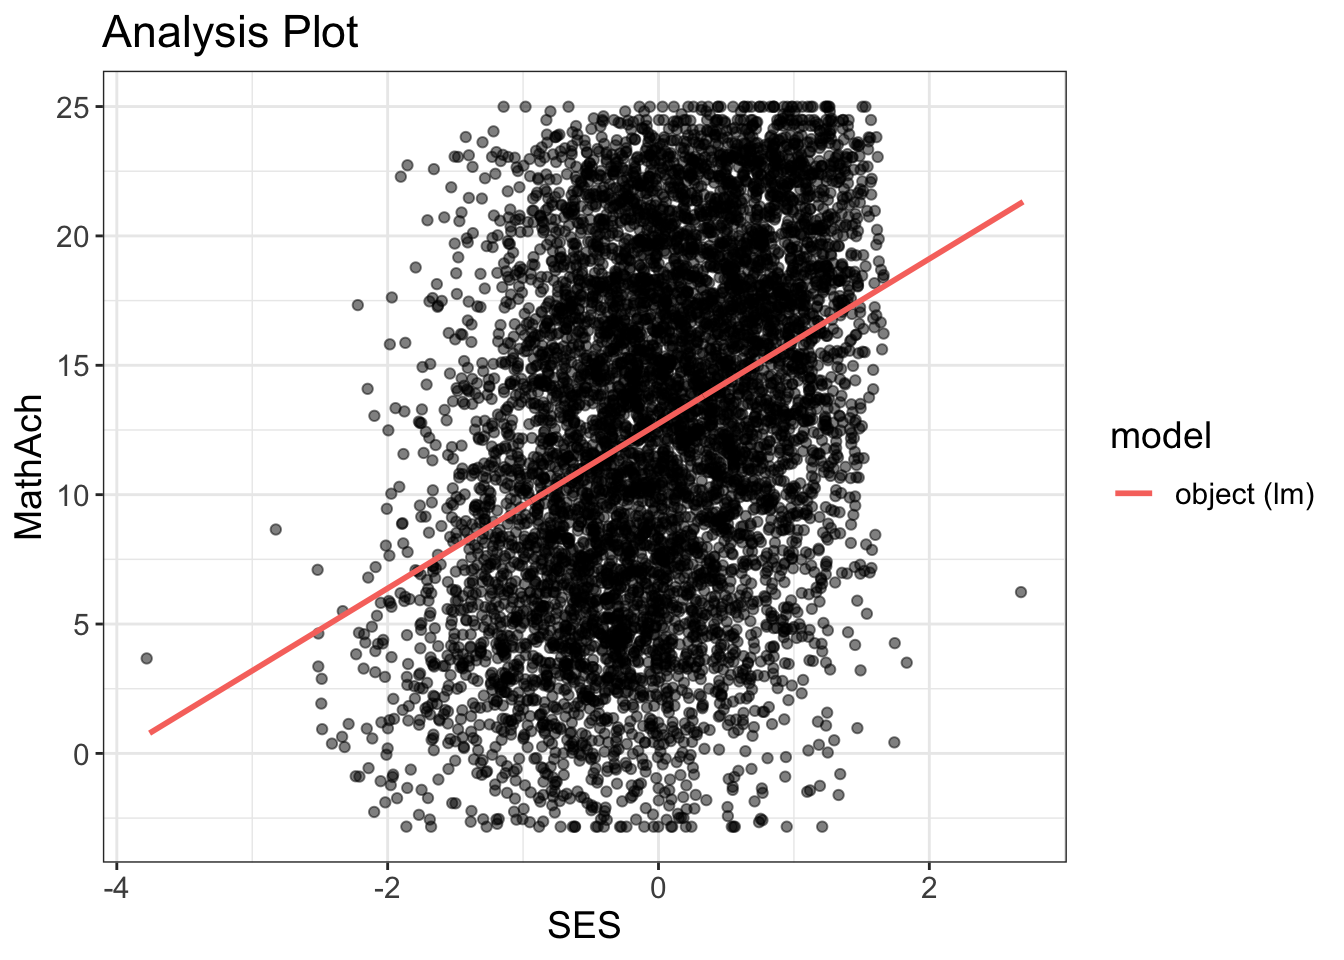
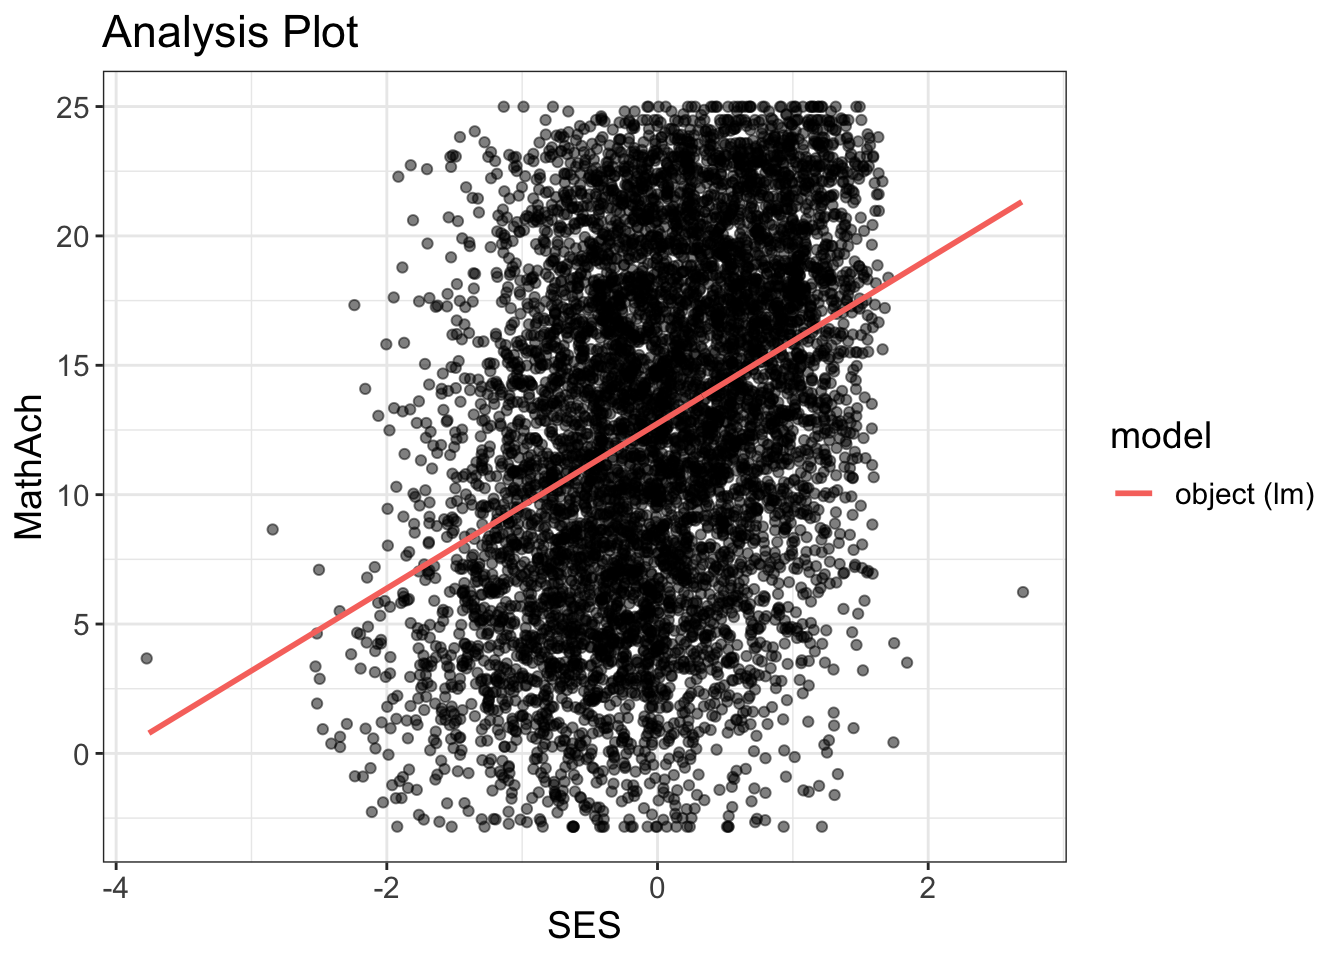
Built site for gh-pages

Changed region(s): [[0.2188, 0.0938, 0.6875, 0.875], [0.4688, 0.9062, 0.5, 0.9375]]

diff --git a/example_2.html b/example_2.html
@@ -345,7 +345,7 @@ $ MEANSES  &lt;dbl&gt; -0.428, -0.428, -0.428, -0.428, -0.428, -0.428, -0.428, -
 <h3 class="anchored" data-anchor-id="variable-meanings">Variable Meanings</h3>
 <ul>
 <li><p>SES is Socio-Economic Status or Score?</p></li>
-<li><p>MEANSES is ?</p></li>
+<li><p>MEANSES is presumable the mean of SES that is already calculated for each school ID</p></li>
 <li><p>MathAch is achievement in Math?</p></li>
 </ul>
 </section>
@@ -671,209 +671,71 @@ F-statistic:   691 on 2 and 7182 DF,  p-value: &lt; 2.2e-16</code></pre>
 <ul>
 <li><p>Box Violin plot show clearly the effect of Minority</p></li>
 <li><p>Median is about 5 points down for Yes</p></li>
+<li><p>SES and Minority together are better predictors</p></li>
+<li><p>How to visualize a model using 2 or more indepandant variables?</p>
+<ul>
+<li>look at this nice example plucked from the interweb</li>
+</ul></li>
 </ul>
+<div class="cell">
+<div class="sourceCode cell-code" id="cb57"><pre class="sourceCode r code-with-copy"><code class="sourceCode r"><span id="cb57-1"><a href="#cb57-1" aria-hidden="true" tabindex="-1"></a><span class="co"># read dataset</span></span>
+<span id="cb57-2"><a href="#cb57-2" aria-hidden="true" tabindex="-1"></a>df <span class="ot">=</span> mtcars</span>
+<span id="cb57-3"><a href="#cb57-3" aria-hidden="true" tabindex="-1"></a></span>
+<span id="cb57-4"><a href="#cb57-4" aria-hidden="true" tabindex="-1"></a><span class="co"># create multiple linear model</span></span>
+<span id="cb57-5"><a href="#cb57-5" aria-hidden="true" tabindex="-1"></a>lm_fit <span class="ot">&lt;-</span> <span class="fu">lm</span>(mpg <span class="sc">~</span> cyl <span class="sc">+</span> hp, <span class="at">data=</span>df)</span>
+<span id="cb57-6"><a href="#cb57-6" aria-hidden="true" tabindex="-1"></a><span class="co">#summary(lm_fit)</span></span>
+<span id="cb57-7"><a href="#cb57-7" aria-hidden="true" tabindex="-1"></a></span>
+<span id="cb57-8"><a href="#cb57-8" aria-hidden="true" tabindex="-1"></a><span class="co"># save predictions of the model in the new data frame </span></span>
+<span id="cb57-9"><a href="#cb57-9" aria-hidden="true" tabindex="-1"></a><span class="co"># together with variable you want to plot against</span></span>
+<span id="cb57-10"><a href="#cb57-10" aria-hidden="true" tabindex="-1"></a>predicted_df <span class="ot">&lt;-</span> <span class="fu">data.frame</span>(<span class="at">mpg_pred =</span> <span class="fu">predict</span>(lm_fit, df), <span class="at">hp=</span>df<span class="sc">$</span>hp)</span>
+<span id="cb57-11"><a href="#cb57-11" aria-hidden="true" tabindex="-1"></a></span>
+<span id="cb57-12"><a href="#cb57-12" aria-hidden="true" tabindex="-1"></a><span class="co"># this is the predicted line of multiple linear regression</span></span>
+<span id="cb57-13"><a href="#cb57-13" aria-hidden="true" tabindex="-1"></a><span class="fu">ggplot</span>(<span class="at">data =</span> df, <span class="fu">aes</span>(<span class="at">x =</span> mpg, <span class="at">y =</span> hp)) <span class="sc">+</span> </span>
+<span id="cb57-14"><a href="#cb57-14" aria-hidden="true" tabindex="-1"></a>  <span class="fu">geom_point</span>(<span class="at">color=</span><span class="st">'blue'</span>) <span class="sc">+</span></span>
+<span id="cb57-15"><a href="#cb57-15" aria-hidden="true" tabindex="-1"></a>  <span class="fu">geom_line</span>(<span class="at">color=</span><span class="st">'red'</span>,<span class="at">data =</span> predicted_df, <span class="fu">aes</span>(<span class="at">x=</span>mpg_pred, <span class="at">y=</span>hp))</span></code><button title="Copy to Clipboard" class="code-copy-button"><i class="bi"></i></button></pre></div>
+<div class="cell-output-display">
+<p><img src="example_2_files/figure-html/unnamed-chunk-14-1.png" class="img-fluid" width="672"></p>
+</div>
+</div>
+<ul>
+<li><p>And now the same approach for the 2 factor model, lm2:</p>
+<ul>
+<li>lm2 &lt;- lm(MathAch ~ SES + Minority, data = math)</li>
+</ul></li>
+</ul>
+<div class="cell">
+<div class="sourceCode cell-code" id="cb58"><pre class="sourceCode r code-with-copy"><code class="sourceCode r"><span id="cb58-1"><a href="#cb58-1" aria-hidden="true" tabindex="-1"></a><span class="co"># save predictions of the model in the new data frame </span></span>
+<span id="cb58-2"><a href="#cb58-2" aria-hidden="true" tabindex="-1"></a><span class="co"># together with variable you want to plot against</span></span>
+<span id="cb58-3"><a href="#cb58-3" aria-hidden="true" tabindex="-1"></a>predicted_df <span class="ot">&lt;-</span> <span class="fu">data.frame</span>(<span class="at">MathArc_pred =</span> <span class="fu">predict</span>(lm2, math), <span class="at">SES=</span>math<span class="sc">$</span>SES)</span>
+<span id="cb58-4"><a href="#cb58-4" aria-hidden="true" tabindex="-1"></a></span>
+<span id="cb58-5"><a href="#cb58-5" aria-hidden="true" tabindex="-1"></a><span class="co"># this is the predicted line of multiple linear regression</span></span>
+<span id="cb58-6"><a href="#cb58-6" aria-hidden="true" tabindex="-1"></a><span class="fu">ggplot</span>(<span class="at">data =</span> math, <span class="fu">aes</span>(<span class="at">x =</span> SES, <span class="at">y =</span> MathAch)) <span class="sc">+</span> </span>
+<span id="cb58-7"><a href="#cb58-7" aria-hidden="true" tabindex="-1"></a>  <span class="fu">geom_point</span>(<span class="at">color=</span><span class="st">'blue'</span>,<span class="at">size=</span><span class="fl">0.1</span>) <span class="sc">+</span></span>
+<span id="cb58-8"><a href="#cb58-8" aria-hidden="true" tabindex="-1"></a>  <span class="fu">geom_line</span>(<span class="at">color=</span><span class="st">'red'</span>,<span class="at">linewidth=</span><span class="fl">0.1</span>, <span class="at">data =</span> predicted_df, <span class="fu">aes</span>(<span class="at">x=</span>SES, <span class="at">y=</span>MathArc_pred))</span></code><button title="Copy to Clipboard" class="code-copy-button"><i class="bi"></i></button></pre></div>
+<div class="cell-output-display">
+<p><img src="example_2_files/figure-html/unnamed-chunk-15-1.png" class="img-fluid" width="672"></p>
+</div>
+</div>
 </section>
 </section>
 <section id="down-the-rabbit-hole" class="level3">
 <h3 class="anchored" data-anchor-id="down-the-rabbit-hole">Down the rabbit hole</h3>
 <div class="cell">
-<div class="sourceCode cell-code" id="cb57"><pre class="sourceCode r code-with-copy"><code class="sourceCode r"><span id="cb57-1"><a href="#cb57-1" aria-hidden="true" tabindex="-1"></a><span class="co"># interesting </span></span>
-<span id="cb57-2"><a href="#cb57-2" aria-hidden="true" tabindex="-1"></a><span class="co"># what does this mean?</span></span>
-<span id="cb57-3"><a href="#cb57-3" aria-hidden="true" tabindex="-1"></a>lm3 <span class="ot">&lt;-</span> <span class="fu">lm</span>(MathAch <span class="sc">~</span> SES <span class="sc">+</span> Minority <span class="sc">+</span> School, <span class="at">data =</span> math)</span>
-<span id="cb57-4"><a href="#cb57-4" aria-hidden="true" tabindex="-1"></a><span class="fu">summary</span>(lm3)</span></code><button title="Copy to Clipboard" class="code-copy-button"><i class="bi"></i></button></pre></div>
-<div class="cell-output cell-output-stdout">
-<pre><code>
-Call:
-lm(formula = MathAch ~ SES + Minority + School, data = math)
-
-Residuals:
-     Min       1Q   Median       3Q      Max 
--18.9965  -4.3088   0.1334   4.4711  18.2567 
-
-Coefficients:
-            Estimate Std. Error t value Pr(&gt;|t|)    
-(Intercept) 10.81000    0.87795  12.313  &lt; 2e-16 ***
-SES          1.95248    0.10886  17.935  &lt; 2e-16 ***
-MinorityYes -2.89558    0.22012 -13.155  &lt; 2e-16 ***
-School1288   2.81085    1.48902   1.888 0.059104 .  
-School1296   0.49199    1.24892   0.394 0.693640    
-School1308   5.57282    1.61018   3.461 0.000541 ***
-School1317   3.80479    1.24592   3.054 0.002268 ** 
-School1358   0.72419    1.40520   0.515 0.606316    
-School1374  -0.12613    1.43670  -0.088 0.930045    
-School1433   7.60171    1.34748   5.641 1.75e-08 ***
-School1436   6.20255    1.26525   4.902 9.69e-07 ***
-School1461   4.79767    1.37016   3.502 0.000465 ***
-School1462   3.83734    1.20007   3.198 0.001392 ** 
-School1477   3.24700    1.16411   2.789 0.005297 ** 
-School1499  -0.98336    1.20658  -0.815 0.415098    
-School1637  -0.37097    1.45751  -0.255 0.799100    
-School1906   4.44741    1.20859   3.680 0.000235 ***
-School1909   3.12897    1.43663   2.178 0.029440 *  
-School1942   6.06915    1.42424   4.261 2.06e-05 ***
-School1946   2.38751    1.30269   1.833 0.066882 .  
-School2030   0.81185    1.24249   0.653 0.513516    
-School2208   3.76844    1.17430   3.209 0.001338 ** 
-School2277   2.20629    1.17595   1.876 0.060674 .  
-School2305   4.31984    1.15904   3.727 0.000195 ***
-School2336   4.90714    1.24332   3.947 8.00e-05 ***
-School2458   4.50892    1.19320   3.779 0.000159 ***
-School2467  -0.01869    1.20976  -0.015 0.987673    
-School2526   5.65551    1.18695   4.765 1.93e-06 ***
-School2626   2.71321    1.31177   2.068 0.038643 *  
-School2629   4.97612    1.18502   4.199 2.71e-05 ***
-School2639   0.58408    1.29171   0.452 0.651155    
-School2651   0.30360    1.31220   0.231 0.817034    
-School2655   5.24387    1.21972   4.299 1.74e-05 ***
-School2658   2.30922    1.25763   1.836 0.066375 .  
-School2755   5.62819    1.24681   4.514 6.46e-06 ***
-School2768   0.41322    1.48829   0.278 0.781292    
-School2771   1.74953    1.19394   1.465 0.142873    
-School2818   2.91961    1.27746   2.285 0.022315 *  
-School2917   1.42105    1.28149   1.109 0.267510    
-School2990   8.29000    1.24760   6.645 3.26e-11 ***
-School2995  -0.10831    1.24685  -0.087 0.930778    
-School3013   1.94181    1.20491   1.612 0.107098    
-School3020   3.23409    1.17720   2.747 0.006024 ** 
-School3039   6.57803    1.58172   4.159 3.24e-05 ***
-School3088   0.96627    1.30646   0.740 0.459565    
-School3152   2.56117    1.21064   2.116 0.034418 *  
-School3332   2.27427    1.31591   1.728 0.083981 .  
-School3351   0.83517    1.30559   0.640 0.522396    
-School3377   2.15776    1.26629   1.704 0.088426 .  
-School3427   8.96138    1.22881   7.293 3.37e-13 ***
-School3498   4.51124    1.21000   3.728 0.000194 ***
-School3499   2.88351    1.31803   2.188 0.028721 *  
-School3533   1.00773    1.23591   0.815 0.414885    
-School3610   5.17004    1.15742   4.467 8.06e-06 ***
-School3657   0.03545    1.21557   0.029 0.976734    
-School3688   3.12280    1.27146   2.456 0.014071 *  
-School3705   0.54347    1.25997   0.431 0.666239    
-School3716   2.00438    1.28860   1.555 0.119880    
-School3838   6.14873    1.20328   5.110 3.31e-07 ***
-School3881   1.17256    1.28580   0.912 0.361836    
-School3967   1.66461    1.20989   1.376 0.168918    
-School3992   4.37835    1.21067   3.616 0.000301 ***
-School3999   2.20023    1.25389   1.755 0.079351 .  
-School4042   2.72052    1.15799   2.349 0.018834 *  
-School4173   2.04960    1.26172   1.624 0.104324    
-School4223   4.25354    1.25401   3.392 0.000698 ***
-School4253   2.12821    1.19553   1.780 0.075095 .  
-School4292   5.32002    1.16133   4.581 4.71e-06 ***
-School4325   2.68983    1.20487   2.232 0.025616 *  
-School4350   1.44942    1.36713   1.060 0.289095    
-School4383   1.20770    1.48934   0.811 0.417454    
-School4410   2.54540    1.28559   1.980 0.047748 *  
-School4420   3.50200    1.37767   2.542 0.011044 *  
-School4458  -0.65723    1.24346  -0.529 0.597136    
-School4511   3.10776    1.18008   2.634 0.008469 ** 
-School4523   0.48065    1.25703   0.382 0.702198    
-School4530   0.65207    1.16078   0.562 0.574303    
-School4642   3.65857    1.16795   3.132 0.001741 ** 
-School4868   2.07256    1.35895   1.525 0.127274    
-School4931   2.41840    1.18265   2.045 0.040902 *  
-School5192   0.44779    1.43594   0.312 0.755166    
-School5404   3.14662    1.19193   2.640 0.008311 ** 
-School5619   3.78555    1.15074   3.290 0.001008 ** 
-School5640   2.69490    1.18454   2.275 0.022933 *  
-School5650   5.99356    1.26802   4.727 2.33e-06 ***
-School5667   2.52979    1.17033   2.162 0.030682 *  
-School5720   3.40872    1.20525   2.828 0.004694 ** 
-School5761   2.18376    1.21206   1.802 0.071637 .  
-School5762  -1.57144    1.33349  -1.178 0.238660    
-School5783   2.70143    1.42138   1.901 0.057399 .  
-School5815  -1.05273    1.48936  -0.707 0.479695    
-School5819   1.09015    1.22281   0.892 0.372685    
-School5838   2.66742    1.39200   1.916 0.055374 .  
-School5937   4.79482    1.42396   3.367 0.000763 ***
-School6074   3.61285    1.18905   3.038 0.002387 ** 
-School6089   4.59178    1.36611   3.361 0.000780 ***
-School6144  -0.73726    1.26868  -0.581 0.561173    
-School6170   4.64975    1.57797   2.947 0.003223 ** 
-School6291   2.46695    1.34948   1.828 0.067580 .  
-School6366   4.64099    1.18248   3.925 8.76e-05 ***
-School6397   3.32574    1.17220   2.837 0.004565 ** 
-School6415   1.52307    1.19922   1.270 0.204110    
-School6443   0.41647    1.40591   0.296 0.767066    
-School6464   0.49761    1.43300   0.347 0.728412    
-School6469   7.34482    1.19449   6.149 8.23e-10 ***
-School6484   2.62935    1.34209   1.959 0.050136 .  
-School6578   2.76137    1.18916   2.322 0.020255 *  
-School6600   1.10183    1.18961   0.926 0.354369    
-School6808   0.04589    1.26462   0.036 0.971056    
-School6816   5.01202    1.21099   4.139 3.53e-05 ***
-School6897   4.13698    1.23045   3.362 0.000777 ***
-School6990  -0.98150    1.22074  -0.804 0.421409    
-School7011   3.06475    1.36566   2.244 0.024854 *  
-School7101   1.75016    1.43621   1.219 0.223040    
-School7172   0.52084    1.27490   0.409 0.682896    
-School7232   2.24269    1.21022   1.853 0.063908 .  
-School7276   2.48153    1.20640   2.057 0.039726 *  
-School7332   3.66849    1.23607   2.968 0.003009 ** 
-School7341  -0.01415    1.21615  -0.012 0.990715    
-School7342   2.27919    1.18108   1.930 0.053678 .  
-School7345   1.23923    1.19096   1.041 0.298128    
-School7364   3.60242    1.26128   2.856 0.004301 ** 
-School7635   3.78111    1.21740   3.106 0.001905 ** 
-School7688   7.51748    1.20083   6.260 4.07e-10 ***
-School7697   4.40755    1.37942   3.195 0.001403 ** 
-School7734   1.85061    1.55413   1.191 0.233783    
-School7890  -1.16445    1.21525  -0.958 0.337993    
-School7919   3.22463    1.32435   2.435 0.014921 *  
-School8009   3.25372    1.24611   2.611 0.009044 ** 
-School8150   3.70841    1.26330   2.935 0.003341 ** 
-School8165   5.21531    1.22966   4.241 2.25e-05 ***
-School8175   3.06585    1.37103   2.236 0.025373 *  
-School8188   2.14217    1.40609   1.523 0.127680    
-School8193   6.50780    1.26927   5.127 3.02e-07 ***
-School8202   1.23146    1.34329   0.917 0.359305    
-School8357   3.88852    1.45173   2.679 0.007412 ** 
-School8367  -5.89349    1.83067  -3.219 0.001291 ** 
-School8477   2.48643    1.32121   1.882 0.059886 .  
-School8531   2.48687    1.28810   1.931 0.053567 .  
-School8627   0.36074    1.20589   0.299 0.764836    
-School8628   5.99134    1.16697   5.134 2.91e-07 ***
-School8707   2.67593    1.23640   2.164 0.030476 *  
-School8775   0.04408    1.23391   0.036 0.971501    
-School8800   0.08242    1.38495   0.060 0.952549    
-School8854  -4.54976    1.37794  -3.302 0.000965 ***
-School8857   5.64889    1.17050   4.826 1.42e-06 ***
-School8874   2.95601    1.33260   2.218 0.026571 *  
-School8946   0.40105    1.17956   0.340 0.733867    
-School8983   0.81257    1.21536   0.669 0.503782    
-School9021   2.97339    1.19459   2.489 0.012832 *  
-School9104   4.57053    1.20051   3.807 0.000142 ***
-School9158  -0.66014    1.20498  -0.548 0.583817    
-School9198   7.32167    1.39411   5.252 1.55e-07 ***
-School9225   3.60389    1.33320   2.703 0.006884 ** 
-School9292   3.52560    1.64597   2.142 0.032231 *  
-School9340   1.14429    1.41928   0.806 0.420128    
-School9347   2.56951    1.18623   2.166 0.030336 *  
-School9359   3.87856    1.20714   3.213 0.001319 ** 
-School9397  -0.34677    1.24142  -0.279 0.779999    
-School9508   3.61321    1.34255   2.691 0.007134 ** 
-School9550   0.77467    1.42057   0.545 0.585546    
-School9586   2.98814    1.18054   2.531 0.011390 *  
----
-Signif. codes:  0 '***' 0.001 '**' 0.01 '*' 0.05 '.' 0.1 ' ' 1
-
-Residual standard error: 6.01 on 7023 degrees of freedom
-Multiple R-squared:  0.2536,    Adjusted R-squared:  0.2365 
-F-statistic: 14.82 on 161 and 7023 DF,  p-value: &lt; 2.2e-16</code></pre>
+<div class="sourceCode cell-code" id="cb59"><pre class="sourceCode r code-with-copy"><code class="sourceCode r"><span id="cb59-1"><a href="#cb59-1" aria-hidden="true" tabindex="-1"></a><span class="co"># interesting </span></span>
+<span id="cb59-2"><a href="#cb59-2" aria-hidden="true" tabindex="-1"></a><span class="co"># what does this mean.. 3 predictors...shows</span></span>
+<span id="cb59-3"><a href="#cb59-3" aria-hidden="true" tabindex="-1"></a>lm3 <span class="ot">&lt;-</span> <span class="fu">lm</span>(MathAch <span class="sc">~</span> SES <span class="sc">+</span> Minority <span class="sc">+</span> School, <span class="at">data =</span> math)</span>
+<span id="cb59-4"><a href="#cb59-4" aria-hidden="true" tabindex="-1"></a><span class="co"># summary(lm3)</span></span>
+<span id="cb59-5"><a href="#cb59-5" aria-hidden="true" tabindex="-1"></a><span class="co"># undo above comment to go down the hole</span></span>
+<span id="cb59-6"><a href="#cb59-6" aria-hidden="true" tabindex="-1"></a><span class="co">#</span></span>
+<span id="cb59-7"><a href="#cb59-7" aria-hidden="true" tabindex="-1"></a><span class="co"># Does this mean that the model with SES + Minority is better for some schools?</span></span>
+<span id="cb59-8"><a href="#cb59-8" aria-hidden="true" tabindex="-1"></a><span class="co"># TO DO</span></span></code><button title="Copy to Clipboard" class="code-copy-button"><i class="bi"></i></button></pre></div>
 </div>
-</div>
-<section id="comments-6" class="level4">
-<h4 class="anchored" data-anchor-id="comments-6">Comments</h4>
-<ul>
-<li>Does this mean that the model with SES + Minority is better for some schools</li>
-</ul>
-</section>
 </section>
 <section id="compare-models" class="level3">
 <h3 class="anchored" data-anchor-id="compare-models">Compare models</h3>
 <div class="cell">
-<div class="sourceCode cell-code" id="cb59"><pre class="sourceCode r code-with-copy"><code class="sourceCode r"><span id="cb59-1"><a href="#cb59-1" aria-hidden="true" tabindex="-1"></a><span class="co"># compare standard 1 and 2 predictor models</span></span>
-<span id="cb59-2"><a href="#cb59-2" aria-hidden="true" tabindex="-1"></a><span class="fu">model.comparison</span>(lm1, lm2)</span></code><button title="Copy to Clipboard" class="code-copy-button"><i class="bi"></i></button></pre></div>
+<div class="sourceCode cell-code" id="cb60"><pre class="sourceCode r code-with-copy"><code class="sourceCode r"><span id="cb60-1"><a href="#cb60-1" aria-hidden="true" tabindex="-1"></a><span class="co"># compare standard 1 and 2 predictor models</span></span>
+<span id="cb60-2"><a href="#cb60-2" aria-hidden="true" tabindex="-1"></a><span class="fu">model.comparison</span>(lm1, lm2)</span></code><button title="Copy to Clipboard" class="code-copy-button"><i class="bi"></i></button></pre></div>
 <div class="cell-output cell-output-stdout">
 <pre><code>$statistics
          aic      bic bayes.factor      p   rsq
@@ -885,14 +747,14 @@ $predicted_differences
 0.051 0.565 0.886 1.472 3.236 </code></pre>
 </div>
 </div>
-<section id="comments-7" class="level4">
-<h4 class="anchored" data-anchor-id="comments-7">Comments</h4>
+<section id="comments-6" class="level4">
+<h4 class="anchored" data-anchor-id="comments-6">Comments</h4>
 <ul>
 <li>lm2 better than 1</li>
 </ul>
 <div class="cell">
-<div class="sourceCode cell-code" id="cb61"><pre class="sourceCode r code-with-copy"><code class="sourceCode r"><span id="cb61-1"><a href="#cb61-1" aria-hidden="true" tabindex="-1"></a><span class="co"># compare the standard 2 predictor model with the MM with 2 predictors </span></span>
-<span id="cb61-2"><a href="#cb61-2" aria-hidden="true" tabindex="-1"></a><span class="fu">model.comparison</span>(lm2, mod_ses_minority)</span></code><button title="Copy to Clipboard" class="code-copy-button"><i class="bi"></i></button></pre></div>
+<div class="sourceCode cell-code" id="cb62"><pre class="sourceCode r code-with-copy"><code class="sourceCode r"><span id="cb62-1"><a href="#cb62-1" aria-hidden="true" tabindex="-1"></a><span class="co"># compare the standard 2 predictor model with the MM with 2 predictors </span></span>
+<span id="cb62-2"><a href="#cb62-2" aria-hidden="true" tabindex="-1"></a><span class="fu">model.comparison</span>(lm2, mod_ses_minority)</span></code><button title="Copy to Clipboard" class="code-copy-button"><i class="bi"></i></button></pre></div>
 <div class="cell-output cell-output-stdout">
 <pre><code>$statistics
                       aic      bic bayes.factor
@@ -905,8 +767,8 @@ $predicted_differences
 </div>
 </div>
 </section>
-<section id="comments-8" class="level4">
-<h4 class="anchored" data-anchor-id="comments-8">Comments</h4>
+<section id="comments-7" class="level4">
+<h4 class="anchored" data-anchor-id="comments-7">Comments</h4>
 <ul>
 <li>MM better than standard 2 predictor variable model?</li>
 </ul>

diff --git a/example_1.html b/example_1.html
@@ -494,6 +494,10 @@ AGE_14 -0.608</code></pre>
 <span id="cb36-4"><a href="#cb36-4" aria-hidden="true" tabindex="-1"></a>sample_n <span class="ot">&lt;-</span> <span class="dv">10</span></span>
 <span id="cb36-5"><a href="#cb36-5" aria-hidden="true" tabindex="-1"></a><span class="fu">visualize</span>(rand.is, <span class="at">plot =</span> <span class="st">"model"</span>, <span class="at">sample=</span>sample_n)</span></code><button title="Copy to Clipboard" class="code-copy-button"><i class="bi"></i></button></pre></div>
 <div class="cell-output cell-output-stderr">
+<pre><code>Warning in compare.fits(formula, data = data, model1 = object, re = T, return.preds = T, : Some of the model's predicted values are beyond the range of the original y-values. 
+              I'm truncating the y-axis to preserve the original scale.</code></pre>
+</div>
+<div class="cell-output cell-output-stderr">
 <pre><code>It looks like you're trying to plot more than 6 colors/lines/symbols.
 I gotta give it to you...you're ambitious. Alas, I can't do that, so I'm removing the colors/lines/symbols.
  I hope we can still be friends.</code></pre>
@@ -501,7 +505,7 @@ I gotta give it to you...you're ambitious. Alas, I can't do that, so I'm removin
 <div class="cell-output-display">
 <p><img src="example_1_files/figure-html/unnamed-chunk-10-1.png" class="img-fluid" width="672"></p>
 </div>
-<div class="sourceCode cell-code" id="cb38"><pre class="sourceCode r code-with-copy"><code class="sourceCode r"><span id="cb38-1"><a href="#cb38-1" aria-hidden="true" tabindex="-1"></a><span class="fu">summary</span>(rand.is)</span></code><button title="Copy to Clipboard" class="code-copy-button"><i class="bi"></i></button></pre></div>
+<div class="sourceCode cell-code" id="cb39"><pre class="sourceCode r code-with-copy"><code class="sourceCode r"><span id="cb39-1"><a href="#cb39-1" aria-hidden="true" tabindex="-1"></a><span class="fu">summary</span>(rand.is)</span></code><button title="Copy to Clipboard" class="code-copy-button"><i class="bi"></i></button></pre></div>
 <div class="cell-output cell-output-stdout">
 <pre><code>Linear mixed model fit by REML ['lmerMod']
 Formula: ALCUSE ~ 1 + AGE_14 + (AGE_14 | ID)
